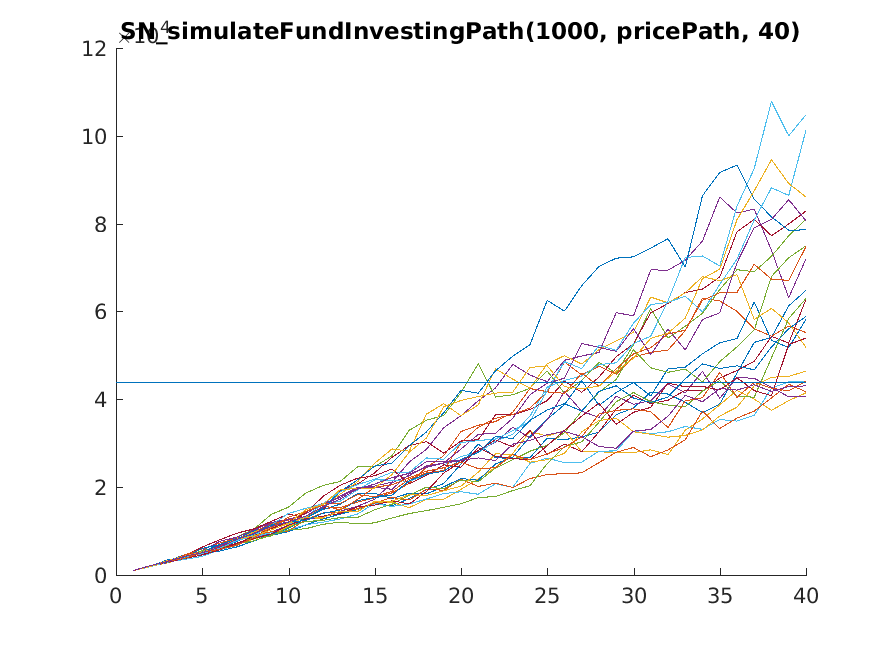
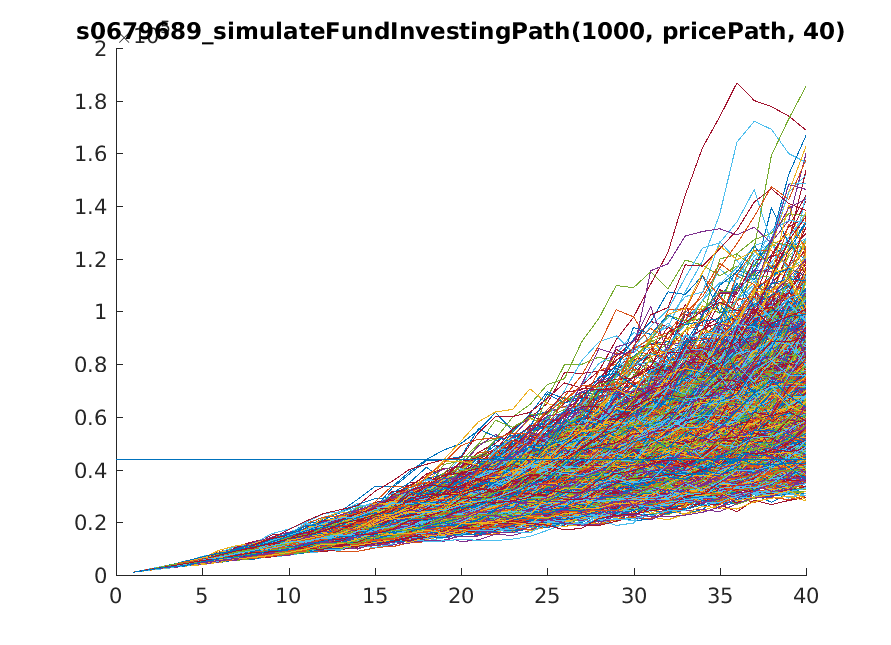
done ex 16 and 18

diff --git a/1/test.m b/1/test.m
@@ -3,77 +3,94 @@
 close all
 format bank
 
-investedCapital = SN_investedCapital(1000, 40);
+investedCapital = s0679689_investedCapital(1000, 40);
+sprintf('Invested capital: %f', investedCapital)
 
-[~, ~] = SN_simulateSaving(1000, 0.01, 4);
-[~, ~] = SN_simulateSaving(1000, 0.01, 5);
-[~, ~] = SN_simulateSaving(1000, 0.01, 12);
-[path, yield] = SN_simulateSaving(1000, 0.01, 40);
+[path, yield] = s0679689_simulateSaving(1000, 0.01, 40);
+sprintf('Yield on savings with 1% interest: %f', yield)
 
 load('Funds.mat')
-[mu, sigma] = SN_estimateParameters(S(:,1));
+[mu1, sigma1] = s0679689_estimateParameters(S(:,1));
+[mu2, sigma2] = s0679689_estimateParameters(S(:,2));
+quartals = 40;
+budget = 1000;
 
-fig1 = figure(1); % quarterly path
-title('SN\_simulateQuarterlyPath(38.2919, 0.0062281, 0.0436201, 40)')
+fig1 = figure(1); % quarterly path VTI
+title('s0679689\_simulateQuarterlyPath(, 0.0062281, 0.0436201, 40)')
 
 fig2 = figure(2); % fund investment path
-title('SN\_simulateFundInvestingPath(1000, pricePath, 40)')
+title('s0679689\_simulateFundInvestingPath(1000, pricePath, 40)')
 
-fig3 = figure(3); % pension fund investment path
-title('SN\_simulatePensionFundInvesting(1000, pricePath, 40)')
+fig3 = figure(3); % quarterly path BNP
+title('s0679689\_simulateQuarterlyPath(38.2919, 0.0062281, 0.0436201, 40)')
+
+fig4 = figure(4); % pension fund investment path
+title('s0679689\_simulatePensionFundInvesting(1000, pricePath, 40)')
 
 yields1 = zeros(25, 1);
 yields2 = zeros(25, 1);
 
-for i = 1:25
+for i = 1:10000
     set(0, 'CurrentFigure', fig1)
     hold on;
-    pricePath = SN_simulateQuarterlyPath(S(1, 1), mu, sigma, 40);
+    pricePath = s0679689_simulateQuarterlyPath(S(end, 1), mu1, sigma1, quartals);
     plot(pricePath);
     
     set(0, 'CurrentFigure', fig2)
     hold on;
-    [path, yield] = SN_simulateFundInvestingPath(1000, pricePath, 40);
+    [path, yield] = s0679689_simulateFundInvestingPath(budget, pricePath, quartals);
     yields1(i) = yield;
     plot(path);
     
     set(0, 'CurrentFigure', fig3)
     hold on;
-    [path, yield] = SN_simulatePensionFundInvestingPath(1000, pricePath, 40);
+    pricePath = s0679689_simulateQuarterlyPath(S(end, 2), mu2, sigma2, quartals);
+    plot(pricePath);
+    
+    set(0, 'CurrentFigure', fig4)
+    hold on;
+    [path, yield] = s0679689_simulatePensionFundInvestingPath(budget, pricePath, quartals);
     yields2(i) = yield;
     plot(path);
 end
 
 set(0, 'CurrentFigure', fig1)
-refline(0, S(1, 1));
+refline(0, S(end, 1));
 set(0, 'CurrentFigure', fig2)
 refline(0, investedCapital);
 set(0, 'CurrentFigure', fig3)
+refline(0, S(end, 2));
+set(0, 'CurrentFigure', fig4)
 refline(0, investedCapital);
-saveas(fig1, 'SN_simulateQuarterlyPath.png');
-saveas(fig2, 'SN_simulateFundInvestingPath.png');
-saveas(fig2, 'SN_simulatePensionFundInvestingPath.png');
+saveas(fig1, 's0679689_simulateQuarterlyPath.png');
+saveas(fig2, 's0679689_simulateFundInvestingPath.png');
+saveas(fig2, 's0679689_simulatePensionFundInvestingPath.png');
 
+sprintf('Yield on VTI funds: min %f, max %f, mean %f, median %f', [min(yields1), max(yields1)])
+sprintf('Yield on BNP pension funds: min %f, max %f, mean %f, median %f', [])
+
+%{
 'VTI Fund Investing';
 for i = 20:20:160
-    %yields = SN_simulateFundInvesting(1000, i, S(:,1), 20);
+    %yields = s0679689_simulateFundInvesting(1000, i, S(:,1), 20);
     [mean(yields) min(yields) max(yields)];
 end
 
 'BNP Fund Investing';
 for i = 20:20:160
-    %yields = SN_simulateFundInvesting(1000, i, S(:,2), 20);
+    %yields = s0679689_simulateFundInvesting(1000, i, S(:,2), 20);
     [mean(yields) min(yields) max(yields)];
 end
 
 'VTI Pension Investing';
 for i = 20:20:160
-    yields = SN_simulatePensionFundInvesting(1000, i, S(:,1), 20);
+    yields = s0679689_simulatePensionFundInvesting(1000, i, S(:,1), 20);
     [mean(yields) min(yields) max(yields)]
 end
 
 'BNP Pension Investing';
 for i = 20:20:160
-    yields = SN_simulatePensionFundInvesting(1000, i, S(:,2), 20);
+    yields = s0679689_simulatePensionFundInvesting(1000, i, S(:,2), 20);
     [mean(yields) min(yields) max(yields)]
 end
+%}

diff --git a/1/compareSavingsAlternatives.m b/1/compareSavingsAlternatives.m
@@ -1,4 +1,4 @@
-function [ savingsYield, yieldFFund, yieldFPension, yieldsFundP, yieldsPensionP ] ...
+function [ savingsYield, yieldFFund, yieldFPension, yieldPFund, yieldPPension ] ...
           = compareSavingsAlternatives( budget, quartals, N, binWidth, imageName )
     load('Funds.mat')
     
@@ -7,30 +7,30 @@ function [ savingsYield, yieldFFund, yieldFPension, yieldsFundP, yieldsPensionP 
     end
     
     savingsRate = 0.03; % 3%
-    [~, savingsYield] = SN_simulateSaving(budget, savingsRate, quartals);
+    [~, savingsYield] = s0679689_simulateSaving(budget, savingsRate, quartals);
     sprintf('Spaarrekening rendement: %f', savingsYield)
 
-    yieldFFund = SN_simulateFundInvesting(budget, quartals, S(:,1), N);
+    yieldFFund = s0679689_simulateFundInvesting(budget, quartals, S(:,1), N);
     sprintf('Aandelenonds VTI: min %f, max %f, avg %f', [min(yieldFFund), max(yieldFFund), mean(yieldFFund)])
-    yieldFPension = SN_simulatePensionFundInvesting(budget, quartals, S(:,1), N);
+    yieldFPension = s0679689_simulatePensionFundInvesting(budget, quartals, S(:,1), N);
     sprintf('Pensioenfonds VTI: min %f, max %f, avg %f', [min(yieldFPension), max(yieldFPension), mean(yieldFPension)])
 
-    yieldsFundP = SN_simulateFundInvesting(budget, quartals, S(:,2), N);
-    sprintf('Aandelenonds BNP: min %f, max %f, avg %f', [min(yieldsFundP), max(yieldsFundP), mean(yieldsFundP)])
-    yieldsPensionP = SN_simulatePensionFundInvesting(budget, quartals, S(:,2), N);
-    sprintf('Pensioenfonds BNP: min %f, max %f, avg %f', [min(yieldsPensionP), max(yieldsPensionP), mean(yieldsPensionP)])
+    yieldPFund = s0679689_simulateFundInvesting(budget, quartals, S(:,2), N);
+    sprintf('Aandelenonds BNP: min %f, max %f, avg %f', [min(yieldPFund), max(yieldPFund), mean(yieldPFund)])
+    yieldPPension = s0679689_simulatePensionFundInvesting(budget, quartals, S(:,2), N);
+    sprintf('Pensioenfonds BNP: min %f, max %f, avg %f', [min(yieldPPension), max(yieldPPension), mean(yieldPPension)])
 
     fig = figure; hold all;
     %binWidth = 0.02*max(max(yieldsPensionF), max(yieldsPensionP));
     histogram(yieldFFund, 'BinWidth', binWidth, 'Normalization', 'probability');
-    histogram(yieldsFundP, 'BinWidth', binWidth, 'Normalization', 'probability');
+    histogram(yieldPFund, 'BinWidth', binWidth, 'Normalization', 'probability');
     legend('VTI Aandelen', 'BNP Aandelen');
     saveas(fig, strcat(imageName, '-fund.png'));
 
     fig = figure; hold all;
     %binWidth = 0.02*max(max(yieldsPensionF), max(yieldsPensionP));
     histogram(yieldFPension, 'BinWidth', binWidth, 'Normalization', 'probability');
-    histogram(yieldsPensionP, 'BinWidth', binWidth, 'Normalization', 'probability');
+    histogram(yieldPPension, 'BinWidth', binWidth, 'Normalization', 'probability');
     legend('VTI Pensioen', 'BNP Pensioen');
     saveas(fig, strcat(imageName, '-pension.png'));
 end

diff --git a/1/s0679689_simulatePensionFundInvesting.m b/1/s0679689_simulatePensionFundInvesting.m
@@ -1,16 +1,16 @@
-function [ yields ] = SN_simulatePensionFundInvesting(budget, quartals, historicalPrice, N)
+function [ yields ] = s0679689_simulatePensionFundInvesting(budget, quartals, historicalPrice, N)
 % Monte Carlo simulation of periodical investments in a pension fund  
     
     % estimate parameters of evolution of fund worth
-    [mu, sigma] = SN_estimateParameters(historicalPrice);
+    [mu, sigma] = s0679689_estimateParameters(historicalPrice);
     yields = zeros(quartals, 1);
     
     for q = 1:N
         % simulate path for worth of fund
-        pricePath = SN_simulateQuarterlyPath(historicalPrice(end), mu, sigma, quartals);
+        pricePath = s0679689_simulateQuarterlyPath(historicalPrice(end), mu, sigma, quartals);
         
         % simulate yield of investing in the fund
-        [~, yield] = SN_simulatePensionFundInvestingPath(budget, pricePath, quartals);
+        [~, yield] = s0679689_simulatePensionFundInvestingPath(budget, pricePath, quartals);
         yields(q) = yield;
     end
 end

diff --git a/1/s0679689_simulateFundInvesting.m b/1/s0679689_simulateFundInvesting.m
@@ -1,16 +1,16 @@
-function [ yields ] = SN_simulateFundInvesting(budget, quartals, historicalPrice, N)
+function [ yields ] = s0679689_simulateFundInvesting(budget, quartals, historicalPrice, N)
 % Monte Carlo simulation of periodical investments in a fund  
 
     % estimate parameters of evolution of fund worth
-    [mu, sigma] = SN_estimateParameters(historicalPrice);
+    [mu, sigma] = s0679689_estimateParameters(historicalPrice);
     yields = zeros(N, 1);
     
     for q = 1:N
         % simulate path for worth of fund
-        pricePath = SN_simulateQuarterlyPath(historicalPrice(end), mu, sigma, quartals);
+        pricePath = s0679689_simulateQuarterlyPath(historicalPrice(end), mu, sigma, quartals);
         
         % simulate yield of investing in the fund
-        [~, yield] = SN_simulateFundInvestingPath(budget, pricePath, quartals);
+        [~, yield] = s0679689_simulateFundInvestingPath(budget, pricePath, quartals);
         
         yields(q) = yield;
     end

diff --git a/1/s0679689_simulateFundInvestingPath.m b/1/s0679689_simulateFundInvestingPath.m
@@ -1,10 +1,10 @@
-function [ path, yield ] = SN_simulateFundInvestingPath( budget, pricePath, quartals)
+function [ path, yield ] = s0679689_simulateFundInvestingPath( budget, pricePath, quartals)
 % Simulate the path of a distribution fund
 % path = "de totale nettoinventariswaarde van alle fractionele aandelen"
 % during main calculation, path = amount of shares
 % after main calculation, path = total net worth of shares at each quartal
     
-    investedCapital = SN_investedCapital(budget, quartals);
+    investedCapital = s0679689_investedCapital(budget, quartals);
     
     transactionCosts = 10;     % 10 euros
     stockMarketTax = 0.0027;   % 0.27%

diff --git a/1/ex16.m b/1/ex16.m
@@ -1,0 +1,21 @@
+% Simuleer het rendement van het BNP-pensioenfonds na 160 kwartalen 
+% met volgende spaarbudgetten: 125, 250, 500, 1000 en 2000.
+
+close all
+load('Funds.mat')
+
+budgets = [125, 250, 500, 1000, 2000];
+quartals = 160;
+
+yields = zeros(1, length(budgets));
+
+for i=1:length(budgets)
+    pensionYields = s0679689_simulatePensionFundInvesting(budgets(i), quartals, S(:,2), 1000);
+    yields(i) = mean(pensionYields);
+end
+
+figure
+plot(yields)
+yields
+
+sprintf('Mediaan van de eindrendementen: %f', median(yields))

diff --git a/1/ex18.m b/1/ex18.m
@@ -1,0 +1,21 @@
+% Simuleer het rendement van het VTI-fonds na 160 kwartalen 
+% met volgende spaarbudgetten: 125, 250, 500, 1000 en 2000.
+
+close all
+load('Funds.mat')
+
+budgets = [125, 250, 500, 1000, 2000];
+quartals = 160;
+
+yields = zeros(1, length(budgets));
+
+for i=1:length(budgets)
+    fundYields = s0679689_simulateFundInvesting(budgets(i), quartals, S(:,1), 10000);
+    yields(i) = mean(fundYields);
+end
+
+figure
+plot(yields)
+yields
+
+sprintf('Mediaan van de eindrendementen: %f', median(yields))

diff --git a/1/s0679689_simulatePensionFundInvestingPath.m b/1/s0679689_simulatePensionFundInvestingPath.m
@@ -1,6 +1,6 @@
-function [ path, yield ] = SN_simulatePensionFundInvestingPath(budget, pricePath, quartals)
+function [ path, yield ] = s0679689_simulatePensionFundInvestingPath(budget, pricePath, quartals)
 % Simulate the path of a pension fund
-    investedCapital = SN_investedCapital(budget, quartals);
+    investedCapital = s0679689_investedCapital(budget, quartals);
     
     runningCosts = 0.0125; % 1.25%
     initialFee = 0.03;     % 3% "Om fractionele eenheden van het BNP-fonds aan te kopen"

diff --git a/1/s0679689_simulateSaving.m b/1/s0679689_simulateSaving.m
@@ -1,7 +1,7 @@
-function [ path, yield ] = SN_simulateSaving(budget, rate, quartals)
+function [ path, yield ] = s0679689_simulateSaving(budget, rate, quartals)
 % Simulates the path of a savings account with given start budget and interest rate after a given amount of quartals
 
-    investedCapital = SN_investedCapital(budget, quartals);
+    investedCapital = s0679689_investedCapital(budget, quartals);
     path = budget;
     %deposited = budget;
     tax = 0.15;

diff --git a/1/s0679689_simulateQuarterlyPath.m b/1/s0679689_simulateQuarterlyPath.m
@@ -1,4 +1,4 @@
-function [ path ] = SN_simulateQuarterlyPath(price, mu, sigma, quartals)
+function [ path ] = s0679689_simulateQuarterlyPath(price, mu, sigma, quartals)
 % Simulate the path of the worth of a fund for a given amount of quartals
     path = price;
     

diff --git a/1/s0679689_estimateParameters.m b/1/s0679689_estimateParameters.m
@@ -1,4 +1,4 @@
-function [ mu, sigma ] = SN_estimateParameters( s )
+function [ mu, sigma ] = s0679689_estimateParameters( s )
 % estimates parameters of log-yields of given price evolution vector
     
     x = logYields(s);

diff --git a/1/s0679689_investedCapital.m b/1/s0679689_investedCapital.m
@@ -1,4 +1,4 @@
-function [ capital ] = SN_investedCapital(budget, quartals)
+function [ capital ] = s0679689_investedCapital(budget, quartals)
 % calculates budget after given amount of quartals
     capital = 0;
     
